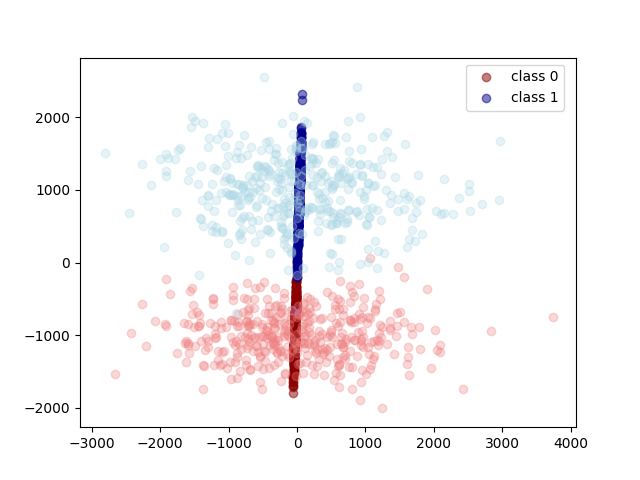
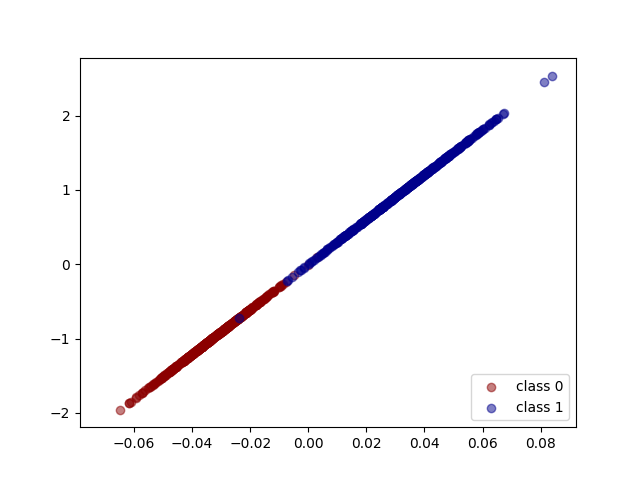
Update documentation

diff --git a/fishers-discriminant/fishers_discriminant.py b/fishers-discriminant/fishers_discriminant.py
@@ -37,6 +37,10 @@ class Model:
         X1 = np.array(X1)
         return X0.T, X1.T
 
+    def norm(self, x):
+
+        return np.linalg.norm(x)
+
 
     def learn_discriminant(self, X0, X1):
         # estimate means of each class
@@ -49,7 +53,7 @@ class Model:
         Sw = cv0 + cv1
         self.w = np.matmul(np.linalg.inv(Sw), mean1 - mean0).reshape(-1)
         # scale w so that w[0] = 1
-        self.scale = np.abs(1/self.w[0])
+        self.scale = 1/self.norm(self.w)
         self.w = self.w*self.scale
 
     def transform(self, data):

diff --git a/logistic-regression/main.py b/logistic-regression/main.py
@@ -127,7 +127,7 @@ if __name__ == '__main__':
     t_val = data['t_valid'].reshape(1, -1)
         
     # from here each sample is a column
-    model = Model(learning_rate=0.01, regularization='l2', lamb=1, random_init='uniform', maxIters=1000)
+    model = Model(learning_rate=0.01, regularization='l2', lamb=1, random_init='gaussian', maxIters=1000)
     preds, costs = model.fit(X_train, t_train)
     print('Train size: ', X_train.shape[1])
     print('Training accuracy is: ', calculate_accuracy(preds, t_train))

diff --git a/logistic-regression/logistic_regression.py b/logistic-regression/logistic_regression.py
@@ -18,7 +18,7 @@ class Model:
                 learning_rate:
                 lamb:               Regularization parameter, lambda
                 regularization:     'l1' or 'l2' or None
-                random_init:        True if random (Gaussian) initialization of parameters is desired
+                random_init:        'gaussian', 'uniform' or 'zero'
                 maxIters:
         '''
         

diff --git a/neural-networks/README.md b/neural-networks/README.md
@@ -9,7 +9,7 @@ The model is defined in `neural_network.py` as `Model`.
 #### Hyperparameters
 - **Neural network architecture**: number of hidden layers, number of units in each hidden layer
 - **Activation functions**: can be specified differently for each layer; ReLU or tanh or sigmoid
-- **Initialization**: random initialization
+- **Initialization**: `gaussiain` or `uniform` or `He`
 - **Regularization**: None
 - Maximum number of iterations
 - Learning rate
